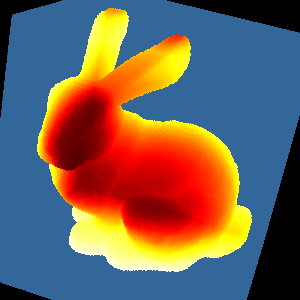
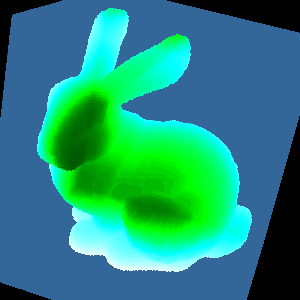
different colormap

diff --git a/teemdoc/trunk/html/nrrd/bunny/index.html b/teemdoc/trunk/html/nrrd/bunny/index.html
@@ -147,10 +147,10 @@ rm -rf bunny-ctscan.tar.gz bunny/
 
 <p>
 
-And do a test rendering with <tt>mrender</tt>, which is like a volume
+Finally, do a test rendering with <tt>mrender</tt>, which is like a volume
 renderer without transfer functions.  Here's its used to make a depth
 image of a down-sampled version of the data, using a <a href="bbody.txt">
-black-body colormap</a>:
+green-body colormap</a>:
 <blockquote><pre>
 unu resample -i bunny.nhdr -s x0.3 x0.3 x0.4 \
  | unu 2op - - 1500 -t float \
